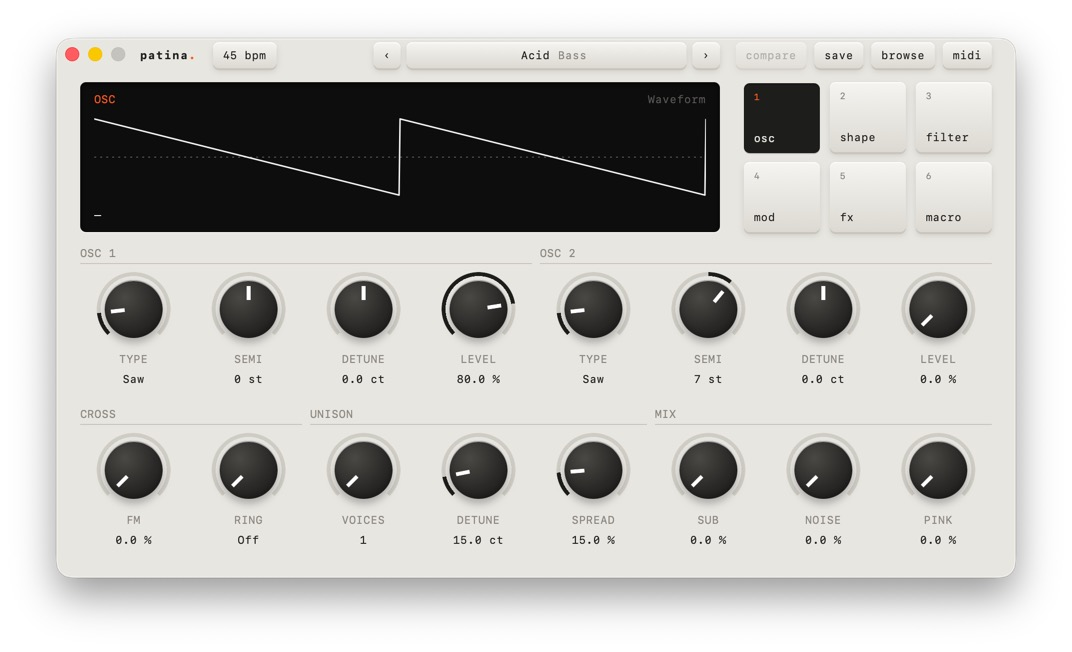
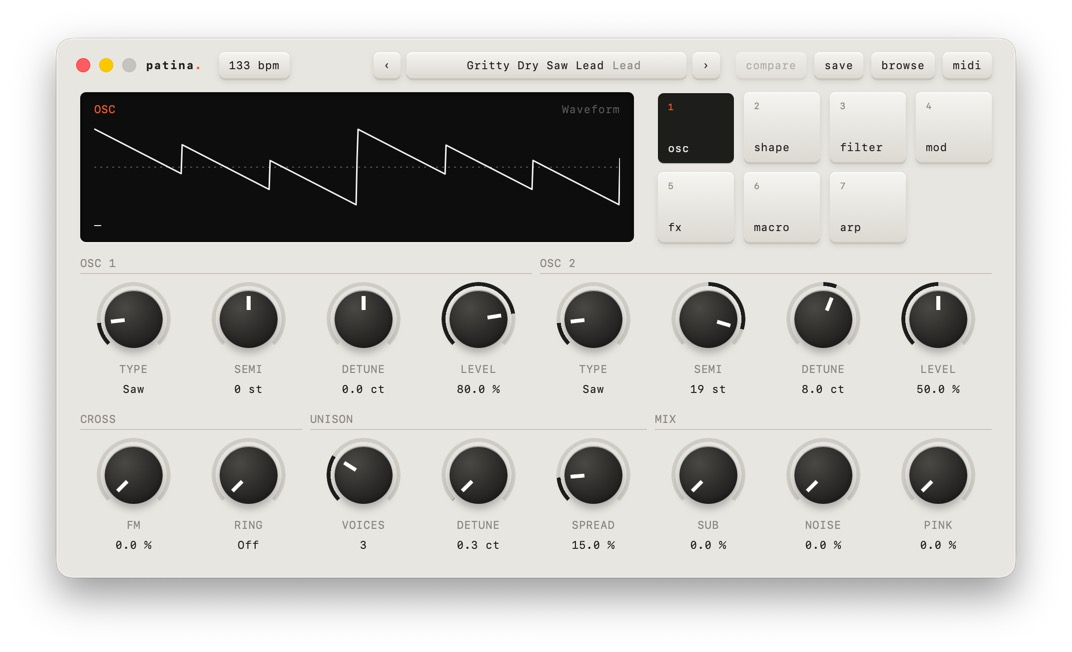
Update the readme's screenshot
Claude-Session: https://claude.ai/code/session_01M6vpxUez9M8PpXKwjRHEfH

diff --git a/README.md b/README.md
@@ -5,7 +5,7 @@ Rust, built with [nih-plug](https://github.com/robbert-vdh/nih-plug), patched
 in `vendor/` (see [vendor/README.md](vendor/README.md)). See
 [SPEC.md](SPEC.md) for the design and build order.
 
-![Patina’s editor showing the Acid Bass preset](docs/screenshot.jpg)
+![Patina’s editor showing the Gritty Dry Saw Lead preset](docs/screenshot.jpg)
 
 ## Download
 
